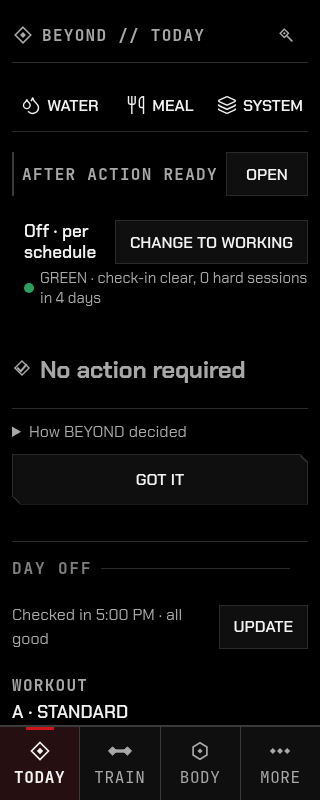
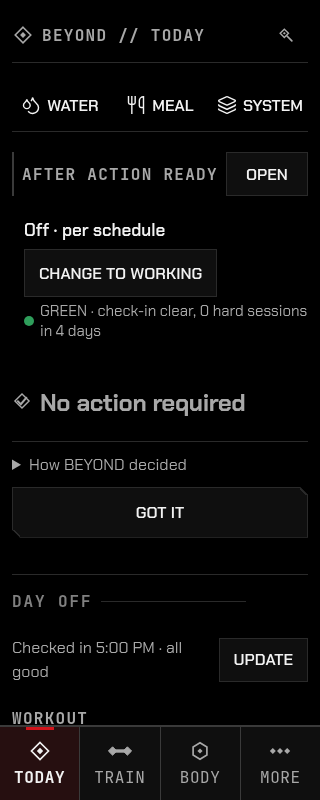
Keep console context and touch targets safe at narrow widths

diff --git a/src/ui/screens/today/console.css b/src/ui/screens/today/console.css
@@ -1,6 +1,6 @@
 /* Bounded production console: existing fonts, status semantics and primary-action tokens. */
-.command-console { --console-gap: 20px; }
-.command-console .field-header { margin-bottom: 16px; }
+.command-console.today-field { --console-gap: 20px; }
+.command-console.today-field .field-header { margin-bottom: 16px; }
 .console-controls {
   display: grid;
   grid-template-columns: repeat(3, minmax(0, 1fr));
@@ -25,24 +25,27 @@
 }
 .console-controls button:hover, .console-controls button:active { background: var(--surface-2); }
 .console-controls button:disabled { opacity: .5; cursor: default; }
-.command-console .status-strip--stacked {
+.command-console.today-field .status-strip--stacked {
   margin-bottom: var(--console-gap);
   padding: 12px 0 12px 12px;
   background: transparent;
 }
-.command-console .console-guidance { margin-bottom: var(--console-gap); }
-.command-console .command-surface {
+.command-console.today-field .status-strip--stacked > div { flex-wrap: wrap; }
+.command-console.today-field .status-strip--stacked .chip { min-height: 48px; }
+.command-console.today-field .console-guidance { margin-bottom: var(--console-gap); }
+.command-console.today-field .command-surface {
+  min-height: 0;
   padding: 20px 16px;
   margin-bottom: 0;
 }
-.command-console .command-surface .command-title {
+.command-console.today-field .command-surface .command-title {
   font-size: clamp(28px, 8vw, 36px);
   line-height: 1.08;
   letter-spacing: .01em;
 }
-.command-console .shift-clock-rows { border-top: 1px solid var(--border-subtle); padding-top: 16px; }
-.command-console .shift-clock-rows .equipment-row { padding-block: 12px; }
-.command-console .today-support { margin-top: 16px; }
+.command-console.today-field .shift-clock-rows { border-top: 1px solid var(--border-subtle); padding-top: 16px; }
+.command-console.today-field .shift-clock-rows .equipment-row { padding-block: 12px; }
+.command-console.today-field .today-support { margin-top: 16px; }
 .console-system {
   width: min(480px, calc(100vw - 24px));
   max-height: calc(100dvh - 32px);
@@ -76,5 +79,5 @@
 .console-system button:focus-visible, .console-controls button:focus-visible { outline: 2px solid var(--text-1); outline-offset: 2px; }
 .console-destination:hover { background: var(--surface-2); }
 @media (prefers-reduced-motion: reduce) {
-  .command-console *, .console-system * { scroll-behavior: auto; }
+  .command-console.today-field *, .console-system * { scroll-behavior: auto; }
 }

diff --git a/tests/browser/CommandConsole.test.tsx b/tests/browser/CommandConsole.test.tsx
@@ -103,6 +103,19 @@ describe("Production Command Console", () => {
     expect(document.querySelectorAll(".today-field .command-surface").length).toBeLessThanOrEqual(1);
   });
 
+  it("reflows a wider standing-context control without horizontal overflow at 320px", async () => {
+    await page.viewport(320, 800);
+    await startDay();
+    const screen = await render(<App />);
+    const standing = screen.getByRole("button", { name: "CHANGE TO WORKING", exact: true });
+    await expect.element(standing).toBeVisible();
+    // Model wider fallback-font metrics observed in CI, without waiting
+    // for font loading or weakening the actual viewport assertion.
+    (standing.element() as HTMLButtonElement).style.minWidth = "232px";
+    expect(document.documentElement.scrollWidth).toBeLessThanOrEqual(320);
+    expect(standing.element().getBoundingClientRect().height).toBeGreaterThanOrEqual(44);
+  });
+
   it("does not abandon a TODAY write through same-tick persistent controls", async () => {
     vi.setSystemTime(new Date(2026, 9, 12, 22));
     const day = await startDay();

diff --git a/docs/agent/CURRENT_CHECKPOINT.md b/docs/agent/CURRENT_CHECKPOINT.md
@@ -4,7 +4,7 @@
 
 Gavin authorized this bounded Protected milestone and explicitly amended the placement rule for
 persistent WATER/MEAL/SYSTEM controls (UX Decision Register, 2026-10-08). Builder: Codex, sole
-Lead Builder; branch `codex/command-console-m1`; active PR linked from this branch in GitHub.
+Lead Builder; branch `codex/command-console-m1`; active PR [#207](https://github.com/gavinlohnes/neo-beyond-lohnes/pull/207).
 Starting fresh master: `db5bae3267ddd82e15f3038f65dc7ba3412893ff`; PR #206 is integrated with
 its reviewed head and green CI. PR #204 remains the sole overlapping open prototype PR, untouched.
 
@@ -17,15 +17,15 @@ backup, dependency, fixture, identity-asset or prototype changes. VCC-001 remain
 implemented; complete searchable launcher/Milestone 2 is deferred. BUILD OWNED composition over
 existing components/commands; USE PLATFORM native dialog with explicit focus containment/return.
 
-Evidence: 16 new real-browser console cases; 47 console/phase/visual/motion cases passed,
-with all 16 console cases repeated after final native-close focus ordering and fixture correction.
-The full local run passed 2,166 tests with one existing skip; two old selector assumptions failed,
-were corrected without weakening their assertions, and passed targeted verification. Final
-TypeScript/build, architecture and whitespace pass. Actual synthetic-fixture screenshots at
-320/360/412 px, status/evidence, logging, SYSTEM and resume are in
-`docs/screenshots/command-console-m1/`. Exact head, final offline evidence and required full CI
-are recorded in the linked PR. Built PWA checks pass offline save/log, cold reload, meal return,
-SYSTEM navigation, water logging/undo, canonical totals and keyboard focus return.
+Evidence: 17 new real-browser console cases, including a deterministic wider-font context
+control regression; console/phase/visual/motion coverage retains overflow, touch-target and
+resume visibility assertions. Status context safely wraps at 320 px; touch targets stay at least
+44 px. Full local regression: 208 files passed, 2,169 tests passed and one existing skip. Final
+TypeScript/build, architecture, whitespace, offline and exact-head required CI results are recorded
+in PR #207. Actual synthetic-fixture screenshots at 320/360/412 px,
+status/evidence, logging, SYSTEM and resume are in `docs/screenshots/command-console-m1/`.
+Built PWA checks cover offline save/log, cold reload, meal return, SYSTEM navigation,
+water logging/undo, canonical totals and keyboard focus return.
 Independent exact-head review and Gavin's final merge approval
 remain required. Chromium automation is not physical-device/Safari or screen-reader testing;
 memory-only meal drafts, existing undo windows and the existing bundle-size warning remain.
